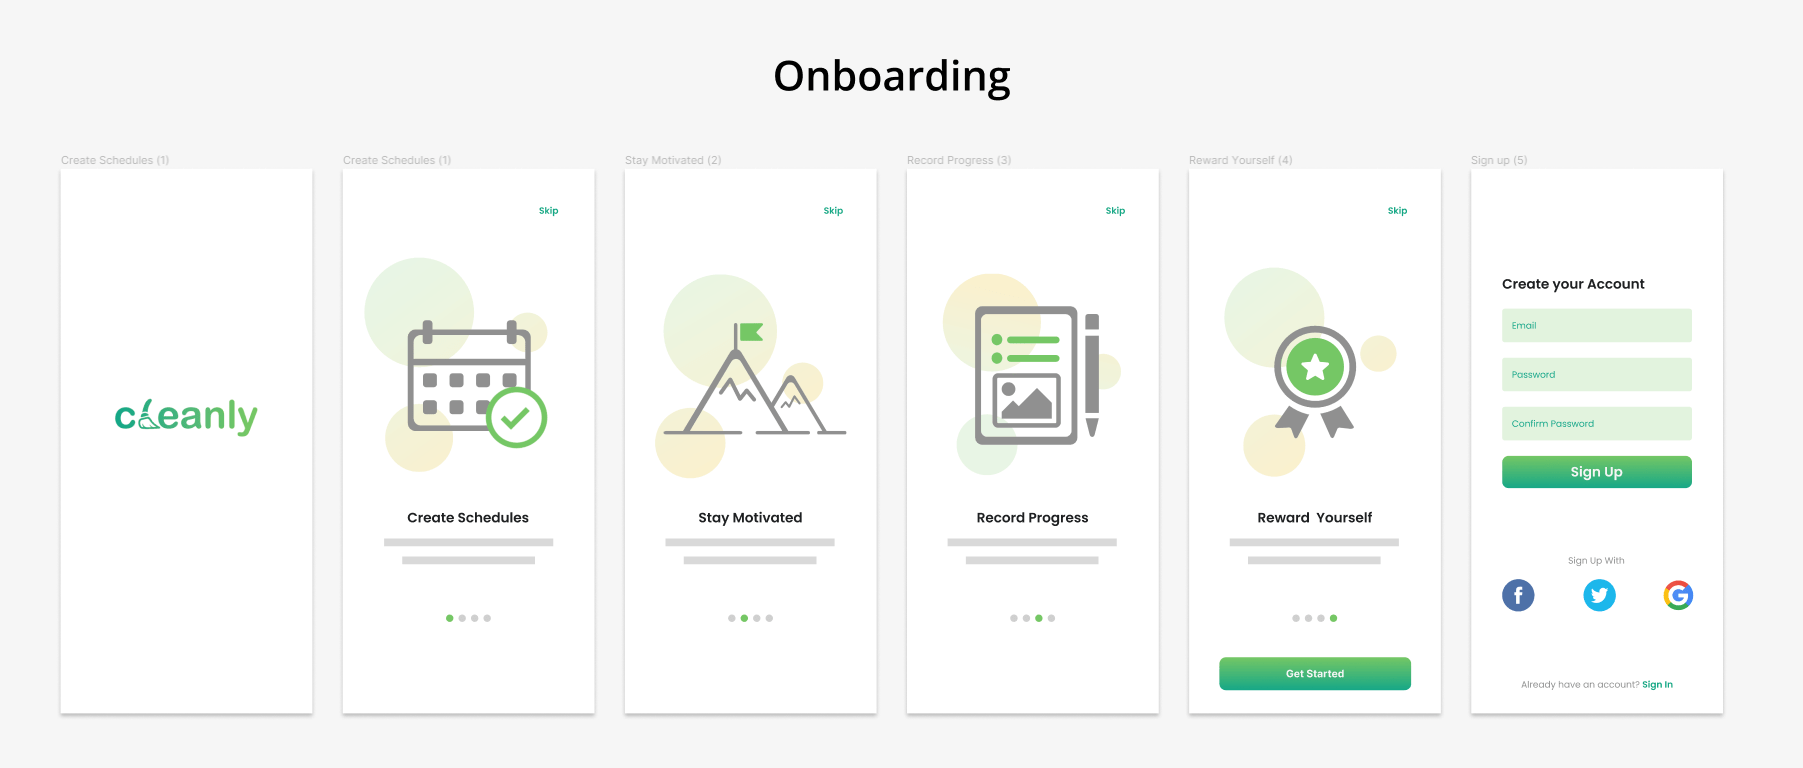
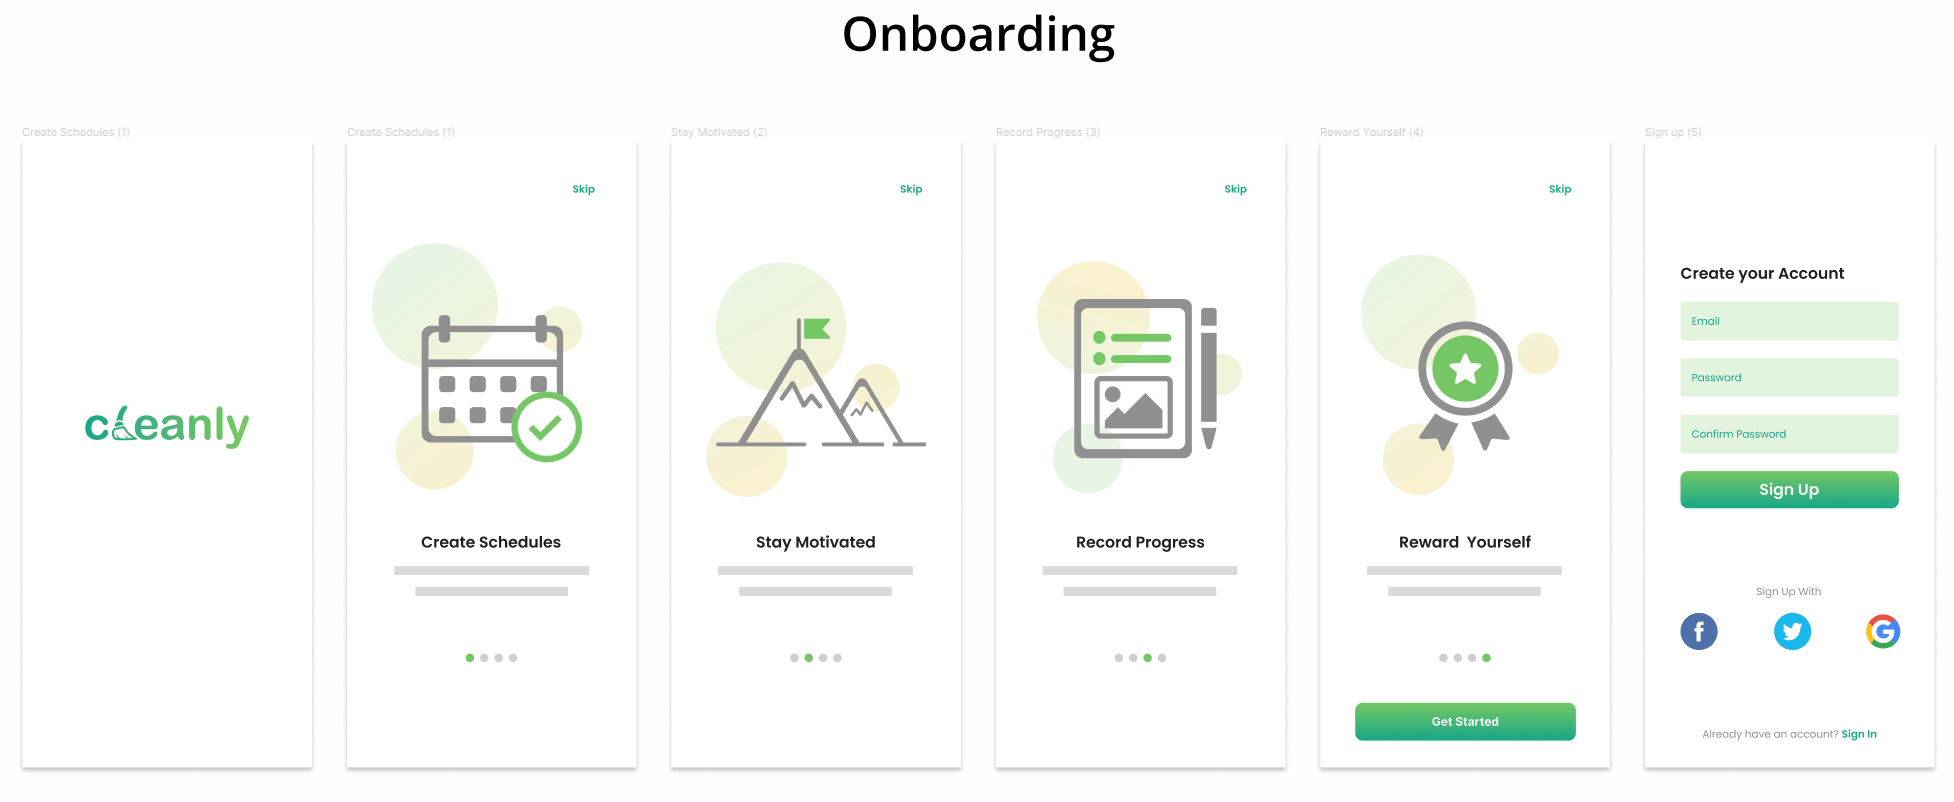
s

diff --git a/piecePage2.html b/piecePage2.html
@@ -237,7 +237,7 @@
                 <div class="stage"> <p>MOCKUPS</p> </div>
                 <h2>Final Design</h2>
                 <img src="images/cleanly/cleanlyMockup1-min.png" alt="image of the Cleanly styles guide">
-                <img src="images/designSpecCleanly.png" alt="image of the Cleanly styles guide">
+                <img src="images/cleanly/cleanlyMockup2-min.png" alt="image of the Cleanly styles guide">
                 <img src="images/designSpecCleanly.png" alt="image of the Cleanly styles guide">
                 <img src="images/designSpecCleanly.png" alt="image of the Cleanly styles guide">
             </div>
